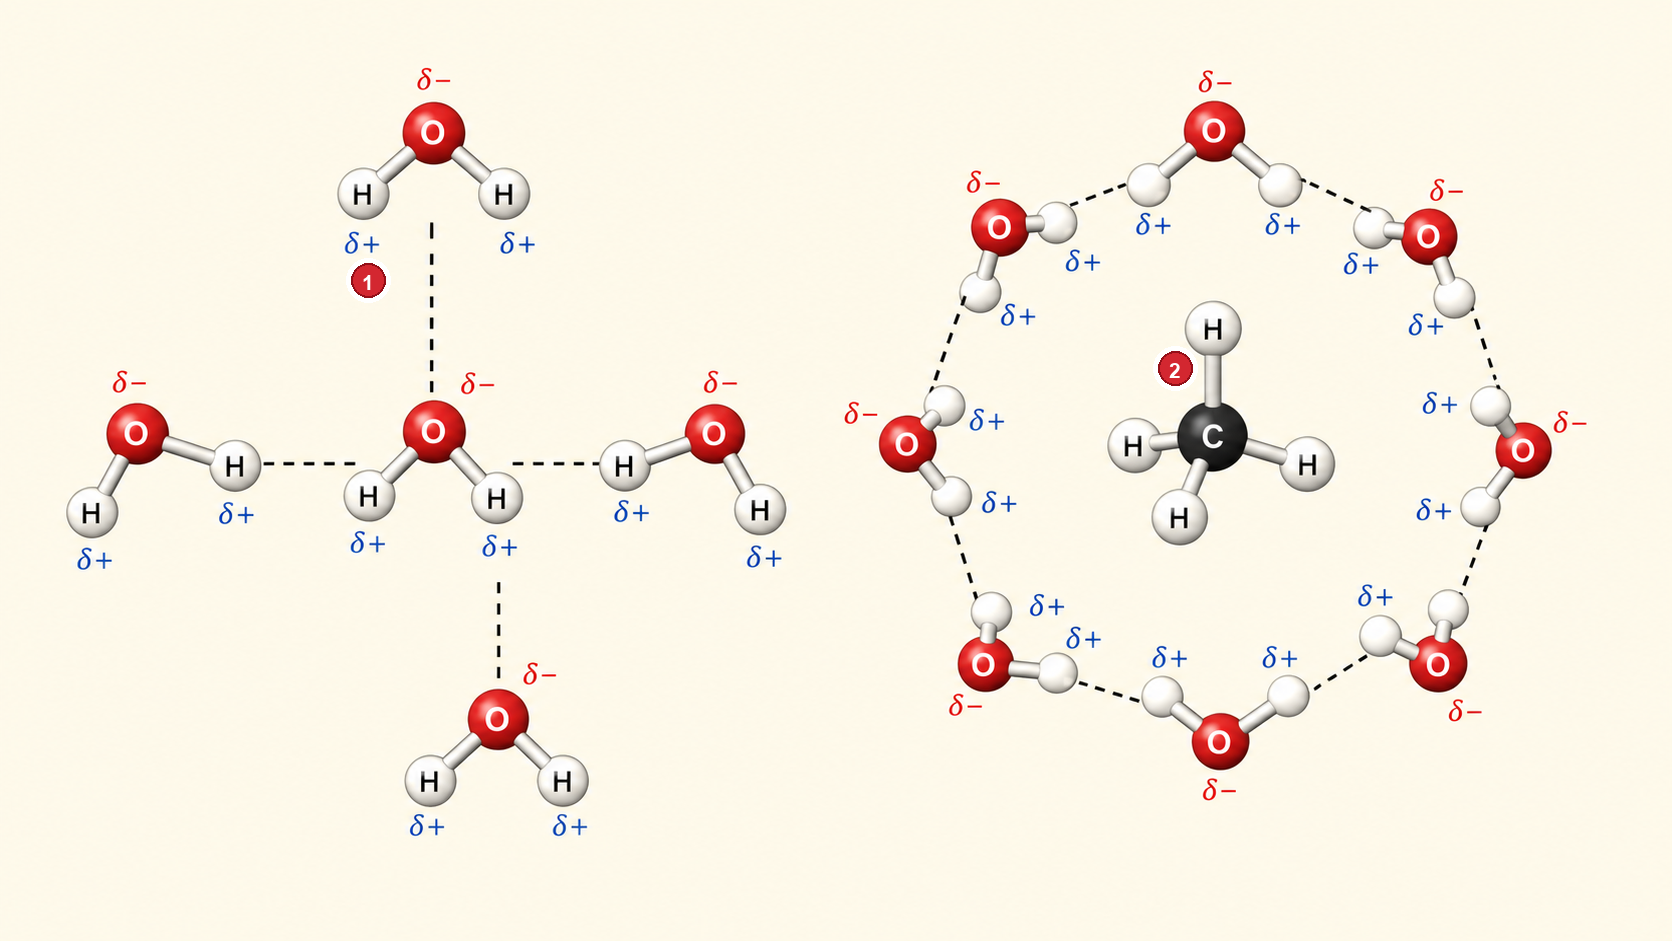
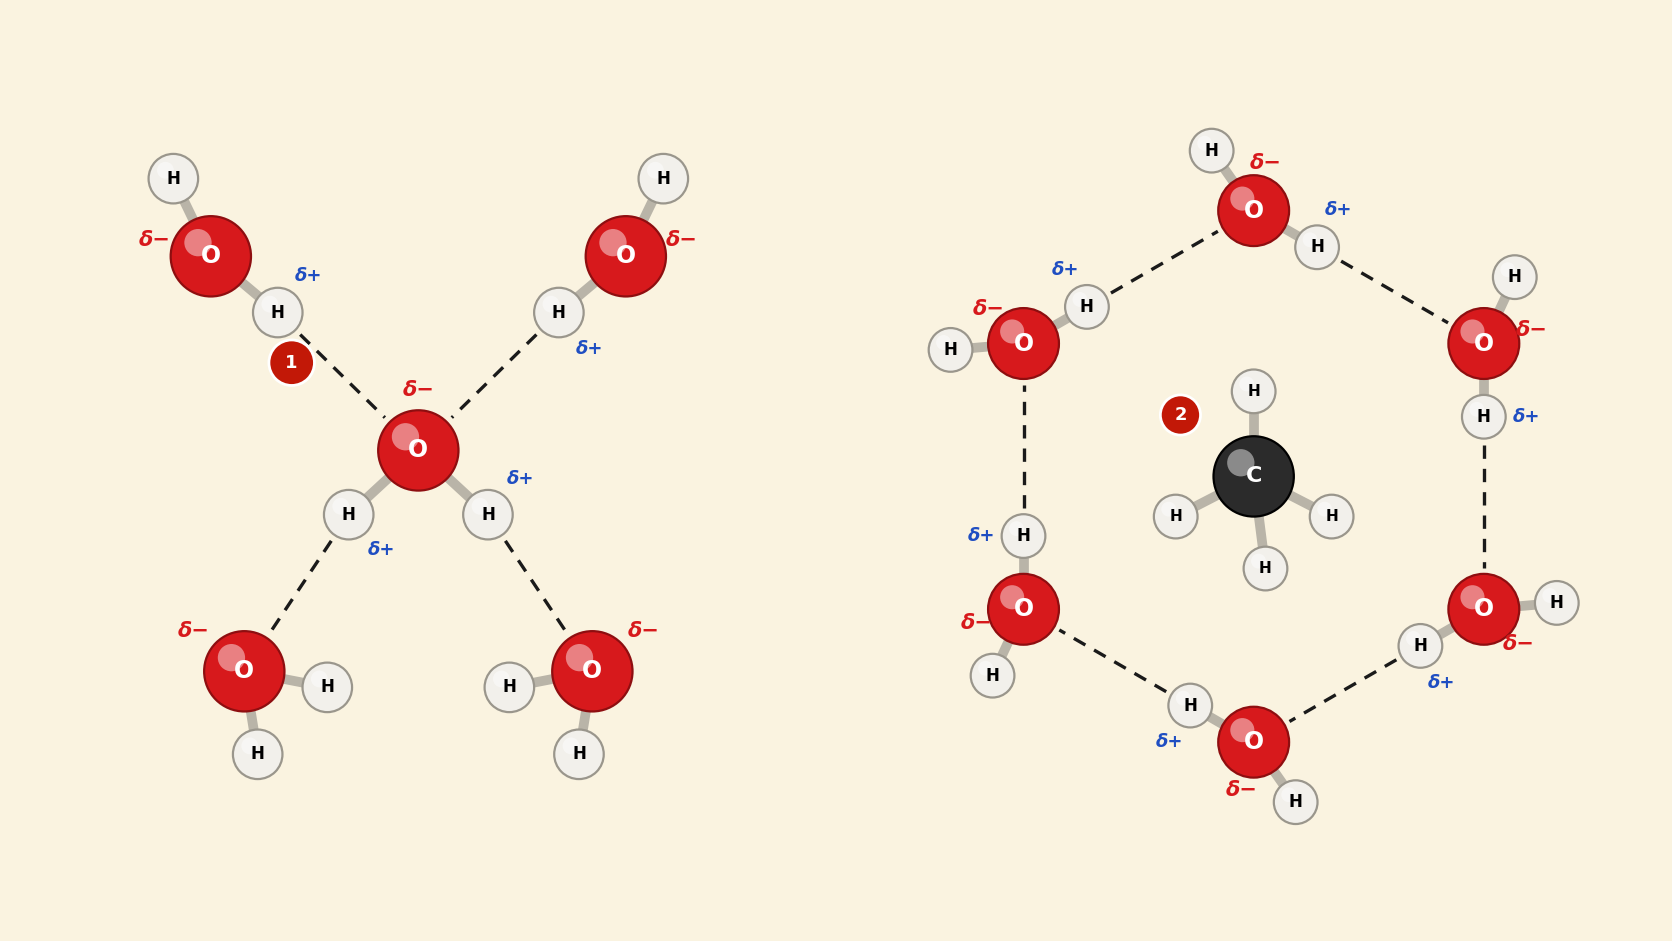
重繪 W02 水分子氫鍵圖：修正 H-H 虛線的化學錯誤
- 原 AI 生成圖多條「氫鍵」畫成 H…H（δ+ 對 δ+），左圖兩側與
  右圖水籠多個接點都錯
- 改由 tools/draw_w02_water_hbond.py 程式繪製：每條虛線由明確的
  (供體H, 受體O) 座標對產生，結構上不可能畫錯；左圖中央水
  捐2收2、右圖水籠每條 H→O 一致方向且不碰甲烷
- 標號語意不變（①氫鍵虛線、②甲烷），題庫 W02-E01 與 w09
  標圖牆解答無需修改
- build_redrawn_assets*.py 停用此圖條目，避免重跑時覆蓋回錯圖
- 投影片與互動課程頁 img 加 ?v=2 強制重新載入

diff --git a/site/vi-a2/lessons/w02.html b/site/vi-a2/lessons/w02.html
@@ -11,7 +11,7 @@ const WEEK={
    '<span class=kw>水分子</span>帶正負電。',
    '氧那邊帶負電。',
    '氫那邊帶正電。'
-  ],img:'../../assets/figures/w02_water_hbond.jpg',imgCap:'水分子的氫鍵 ／ Liên kết hydrogen của nước'},
+  ],img:'../../assets/figures/w02_water_hbond.jpg?v=2',imgCap:'水分子的氫鍵 ／ Liên kết hydrogen của nước'},
   {h:'氫鍵：弱，但很多',p:[
    '一個<span class=kw>氫鍵</span>很弱。',
    '只有共價鍵的1/20。',

diff --git a/site/vi-a2/w02.html b/site/vi-a2/w02.html
@@ -182,7 +182,7 @@
 <h2>水是極性的</h2>
 <p class="vi">Nước phân cực</p>
 </div>
-<img class="r-stretch" src="../assets/figures/w02_water_hbond.jpg" alt="水分子的氫鍵 ／ Liên kết hydrogen của nước">
+<img class="r-stretch" src="../assets/figures/w02_water_hbond.jpg?v=2" alt="水分子的氫鍵 ／ Liên kết hydrogen của nước">
 <p>氧那邊帶負電。氫那邊帶正電。</p>
 <p class="vi">Phía oxygen âm. Phía hydrogen dương.</p>
 <aside class="notes">

diff --git a/tools/draw_w02_water_hbond.py b/tools/draw_w02_water_hbond.py
@@ -1,0 +1,193 @@
+#!/usr/bin/env python3
+# -*- coding: utf-8 -*-
+"""
+draw_w02_water_hbond.py — 重繪 W02「水分子氫鍵 + 甲烷疏水」示意圖。
+
+2026-10-16：原 AI 生成圖（exec-e2508b0f…）化學錯誤——多條氫鍵虛線畫成
+H…H（δ+ 對 δ+）。本腳本改為程式繪製：每條氫鍵一律由
+(供體分子的 H, 受體分子的 O) 座標對產生，結構上不可能畫錯。
+
+標號語意沿用（題庫 W02-E01 與 w09 標圖牆解答依賴）：
+  ① 左圖：水分子間的氫鍵（虛線）
+  ② 右圖：甲烷（C–H 非極性、不形成氫鍵）
+
+輸出：
+  assets/redrawn/w02_water_hbond_clean.png    (1672x941)
+  assets/redrawn/w02_water_hbond_labeled.png  (1672x941)
+"""
+import math
+import matplotlib
+matplotlib.use("Agg")
+import matplotlib.pyplot as plt
+from matplotlib.patches import Circle, FancyBboxPatch
+
+BG = "#FAF3E0"
+O_COL, O_EDGE = "#D7191C", "#8E0E10"
+H_COL, H_EDGE = "#F2F0EB", "#9A968C"
+C_COL, C_EDGE = "#2B2B2B", "#000000"
+BOND = "#B9B4A8"
+DASH = "#1A1A1A"
+DMINUS, DPLUS = "#D7191C", "#1F4EC2"
+
+R_O, R_H, R_C = 0.30, 0.185, 0.34
+
+def sphere(ax, xy, r, face, edge, z=3):
+    ax.add_patch(Circle(xy, r, facecolor=face, edgecolor=edge, lw=1.6, zorder=z))
+    # 左上高光，模擬球感
+    ax.add_patch(Circle((xy[0]-r*0.32, xy[1]+r*0.34), r*0.34,
+                        facecolor="white", edgecolor="none", alpha=0.45, zorder=z+1))
+
+def stick(ax, a, b):
+    ax.plot([a[0], b[0]], [a[1], b[1]], color=BOND, lw=7,
+            solid_capstyle="round", zorder=1)
+
+def atom_label(ax, xy, text, size, z=6, col="black"):
+    ax.text(xy[0], xy[1], text, ha="center", va="center",
+            fontsize=size, fontweight="bold", color=col, zorder=z)
+
+def delta(ax, xy, kind, size=15):
+    ax.text(xy[0], xy[1], "δ−" if kind == "-" else "δ+",
+            ha="center", va="center", fontsize=size, fontstyle="italic",
+            fontweight="bold",
+            color=DMINUS if kind == "-" else DPLUS, zorder=7)
+
+def water(ax, O, H_list, dminus=None, dplus_idx=()):
+    """畫一個水分子。O=(x,y)，H_list=[(x,y),...]。回傳原子座標供氫鍵使用。"""
+    for Hxy in H_list:
+        stick(ax, O, Hxy)
+    sphere(ax, O, R_O, O_COL, O_EDGE)
+    atom_label(ax, O, "O", 17, col="white")
+    for Hxy in H_list:
+        sphere(ax, Hxy, R_H, H_COL, H_EDGE)
+        atom_label(ax, Hxy, "H", 12)
+    if dminus is not None:
+        delta(ax, dminus, "-")
+    for i in dplus_idx:
+        Hxy = H_list[i]
+        v = (Hxy[0]-O[0], Hxy[1]-O[1])
+        n = math.hypot(*v)
+        # 放在 O–H 鍵的垂直方向，避免壓到同方向延伸的氫鍵虛線
+        px, py = -v[1]/n, v[0]/n
+        delta(ax, (Hxy[0]+px*0.36, Hxy[1]+py*0.36), "+", 13)
+    return {"O": O, "H": H_list}
+
+def hbond(ax, donor_H, acceptor_O):
+    """氫鍵：只接受 (H 座標, O 座標)。從 H 球邊緣畫到 O 球邊緣。"""
+    dx, dy = acceptor_O[0]-donor_H[0], acceptor_O[1]-donor_H[1]
+    n = math.hypot(dx, dy)
+    ux, uy = dx/n, dy/n
+    a = (donor_H[0]+ux*(R_H+0.05), donor_H[1]+uy*(R_H+0.05))
+    b = (acceptor_O[0]-ux*(R_O+0.05), acceptor_O[1]-uy*(R_O+0.05))
+    ax.plot([a[0], b[0]], [a[1], b[1]], color=DASH, lw=2.4,
+            linestyle=(0, (4, 3)), zorder=2)
+    return ((a[0]+b[0])/2, (a[1]+b[1])/2)   # 中點，給標號用
+
+def badge(ax, xy, num):
+    ax.add_patch(Circle(xy, 0.17, facecolor="#C21807", edgecolor="white",
+                        lw=2, zorder=9))
+    ax.text(xy[0], xy[1], str(num), ha="center", va="center",
+            fontsize=13, fontweight="bold", color="white", zorder=10)
+
+def rot(v, deg):
+    r = math.radians(deg)
+    return (v[0]*math.cos(r)-v[1]*math.sin(r), v[0]*math.sin(r)+v[1]*math.cos(r))
+
+def draw(labeled, out):
+    fig, (axL, axR) = plt.subplots(
+        1, 2, figsize=(16.72, 9.41), dpi=100,
+        gridspec_kw={"width_ratios": [1, 1]})
+    fig.patch.set_facecolor(BG)
+    for ax in (axL, axR):
+        ax.set_facecolor(BG)
+        ax.set_aspect("equal")
+        ax.axis("off")
+
+    HB = []   # (donor_H, acceptor_O) — 唯一允許的氫鍵形式
+
+    # ---------- 左圖：氫鍵網絡（中央水 捐2 收2） ----------
+    OH = 0.62  # O–H 鍵長
+    c = water(axL, (0, 0.30),
+              [(-0.52, -0.18), (0.52, -0.18)],
+              dminus=(0, 0.75), dplus_idx=(0, 1))
+
+    # 兩個供體（左上、右上）：各有一個 H 指向中央 O
+    for sx in (-1, 1):
+        Od = (sx*1.55, 1.75)
+        Hd = (Od[0]-sx*0.50, Od[1]-0.42)        # 指向中央 O 的 H
+        Ho = (Od[0]+sx*0.28, Od[1]+0.58)        # 另一個 H 朝外
+        water(axL, Od, [Hd, Ho],
+              dminus=(Od[0]+sx*0.42, Od[1]+0.12), dplus_idx=(0,))
+        HB.append((Hd, c["O"]))
+
+    # 兩個受體（左下、右下）：O 朝向中央的 H
+    for sx, hi in ((-1, 0), (1, 1)):
+        Oa = (sx*1.30, -1.35)
+        H1 = (Oa[0]-sx*0.62, Oa[1]-0.12)
+        H2 = (Oa[0]-sx*0.10, Oa[1]-0.62)
+        water(axL, Oa, [H1, H2],
+              dminus=(Oa[0]+sx*0.38, Oa[1]+0.30))
+        HB.append((c["H"][hi], Oa))
+
+    axL.set_xlim(-3.0, 3.0)
+    axL.set_ylim(-2.6, 2.9)
+
+    # ---------- 右圖：水籠包住甲烷（疏水），虛線不碰 CH4 ----------
+    Cc = (0, 0)
+    ch_H = [(0, 0.72), (-0.66, -0.34), (0.66, -0.34), (0.10, -0.78)]
+    for Hxy in ch_H:
+        stick(axR, Cc, Hxy)
+    sphere(axR, Cc, R_C, C_COL, C_EDGE, z=4)
+    atom_label(axR, Cc, "C", 16, col="white")
+    for Hxy in ch_H:
+        sphere(axR, Hxy, R_H, H_COL, H_EDGE, z=4)
+        atom_label(axR, Hxy, "H", 11)
+
+    N, RAD = 6, 2.25
+    ring = []
+    for i in range(N):
+        th = 90 - i*360/N          # 順時針
+        Opos = (RAD*math.cos(math.radians(th)), RAD*math.sin(math.radians(th)))
+        ring.append((th, Opos))
+    for i, (th, Opos) in enumerate(ring):
+        nxt_O = ring[(i+1) % N][1]
+        # 捐出的 H：從 O 指向下一個水的 O
+        v = (nxt_O[0]-Opos[0], nxt_O[1]-Opos[1])
+        n = math.hypot(*v)
+        Hd = (Opos[0]+v[0]/n*OH, Opos[1]+v[1]/n*OH)
+        # 另一個 H 朝環外
+        outw = (Opos[0]/RAD, Opos[1]/RAD)
+        vo = rot(outw, 35)
+        Ho = (Opos[0]+vo[0]*OH, Opos[1]+vo[1]*OH)
+        water(axR, Opos, [Hd, Ho],
+              dminus=(Opos[0]+outw[0]*0.55-vo[0]*0.18,
+                      Opos[1]+outw[1]*0.55-vo[1]*0.18),
+              dplus_idx=(0,))
+        HB.append((Hd, nxt_O))
+
+    axR.set_xlim(-3.4, 3.4)
+    axR.set_ylim(-3.3, 3.4)
+
+    # ---------- 氫鍵總繪製 + 結構性檢查 ----------
+    mids = []
+    for donor_H, acceptor_O in HB:
+        assert isinstance(donor_H, tuple) and isinstance(acceptor_O, tuple)
+        mids.append(hbond(axL if len(mids) < 4 else axR, donor_H, acceptor_O))
+    assert len(HB) == 4 + N, f"氫鍵數不對：{len(HB)}"
+
+    if labeled:
+        # ① 放在左圖「左上供體 → 中央O」那條虛線旁
+        m = mids[0]
+        badge(axL, (m[0]-0.38, m[1]+0.10), 1)
+        # ② 放在甲烷旁
+        badge(axR, (Cc[0]-0.62, Cc[1]+0.52), 2)
+
+    plt.subplots_adjust(left=0.01, right=0.99, top=0.99, bottom=0.01, wspace=0.04)
+    fig.savefig(out, facecolor=BG)
+    plt.close(fig)
+    print("wrote", out)
+
+if __name__ == "__main__":
+    import os
+    base = os.path.join(os.path.dirname(__file__), "..", "assets", "redrawn")
+    draw(False, os.path.join(base, "w02_water_hbond_clean.png"))
+    draw(True,  os.path.join(base, "w02_water_hbond_labeled.png"))

diff --git a/tools/build_redrawn_assets.py b/tools/build_redrawn_assets.py
@@ -11,7 +11,9 @@ BG = (253, 248, 232)
 
 # name, source file, clean required, marker centers in normalized coordinates, repeated-structure note
 ITEMS = [
- ("w02_water_hbond", "exec-e2508b0f-7820-4955-b3e0-45138cf4cce9.png", True, [(0.22,.33),(0.72,.38)], "Water molecules repeat in both hydration examples."),
+ # 2026-10-16 移除:原 AI 圖氫鍵畫成 H…H(化學錯誤)。此圖改由
+ # tools/draw_w02_water_hbond.py 程式繪製,重跑本腳本不可再覆蓋它。
+ # ("w02_water_hbond", "exec-e2508b0f-7820-4955-b3e0-45138cf4cce9.png", True, [(0.22,.33),(0.72,.38)], "Water molecules repeat in both hydration examples."),
  ("w02_titration", "exec-ca4a0f6c-a8fb-4788-8d1c-b9a815ba713a.png", True, [(0.25,.54),(0.52,.35),(0.78,.27)], "No repeated molecular structure."),
  ("w03_aa_general", "exec-eacd272e-e8bf-47ee-899e-0f955c249592.png", True, [(0.50,.45),(0.50,.23),(0.72,.45),(0.50,.68),(0.28,.45)], "One generic amino-acid structure."),
  ("w03_aa_classes", "exec-e9cd72ad-0cc1-480d-9f40-b8766f62bf26.png", False, [(0.12,.17),(0.37,.17),(0.62,.17),(0.87,.17)], "Amino-acid examples repeat within four side-chain classes."),

diff --git a/tools/build_redrawn_assets_v2.py b/tools/build_redrawn_assets_v2.py
@@ -33,7 +33,9 @@ BG = (253, 248, 232)
 
 # name, source file, (v2:clean 一律 True), 錨點(要指的構造)normalized 座標, note
 ITEMS = [
- ("w02_water_hbond", "exec-e2508b0f-7820-4955-b3e0-45138cf4cce9.png", True, [(0.22,.33),(0.72,.38)], "Water molecules repeat in both hydration examples."),
+ # 2026-10-16 移除:原 AI 圖氫鍵畫成 H…H(化學錯誤)。此圖改由
+ # tools/draw_w02_water_hbond.py 程式繪製,重跑本腳本不可再覆蓋它。
+ # ("w02_water_hbond", "exec-e2508b0f-7820-4955-b3e0-45138cf4cce9.png", True, [(0.22,.33),(0.72,.38)], "Water molecules repeat in both hydration examples."),
  ("w02_titration", "exec-ca4a0f6c-a8fb-4788-8d1c-b9a815ba713a.png", True, [(0.25,.54),(0.52,.35),(0.78,.27)], "No repeated molecular structure."),
  ("w03_aa_general", "exec-eacd272e-e8bf-47ee-899e-0f955c249592.png", True, [(0.50,.45),(0.50,.23),(0.72,.45),(0.50,.68),(0.28,.45)], "One generic amino-acid structure."),
  ("w03_aa_classes", "exec-e9cd72ad-0cc1-480d-9f40-b8766f62bf26.png", True, [(0.12,.17),(0.37,.17),(0.62,.17),(0.87,.17)], "Amino-acid examples repeat within four side-chain classes."),
